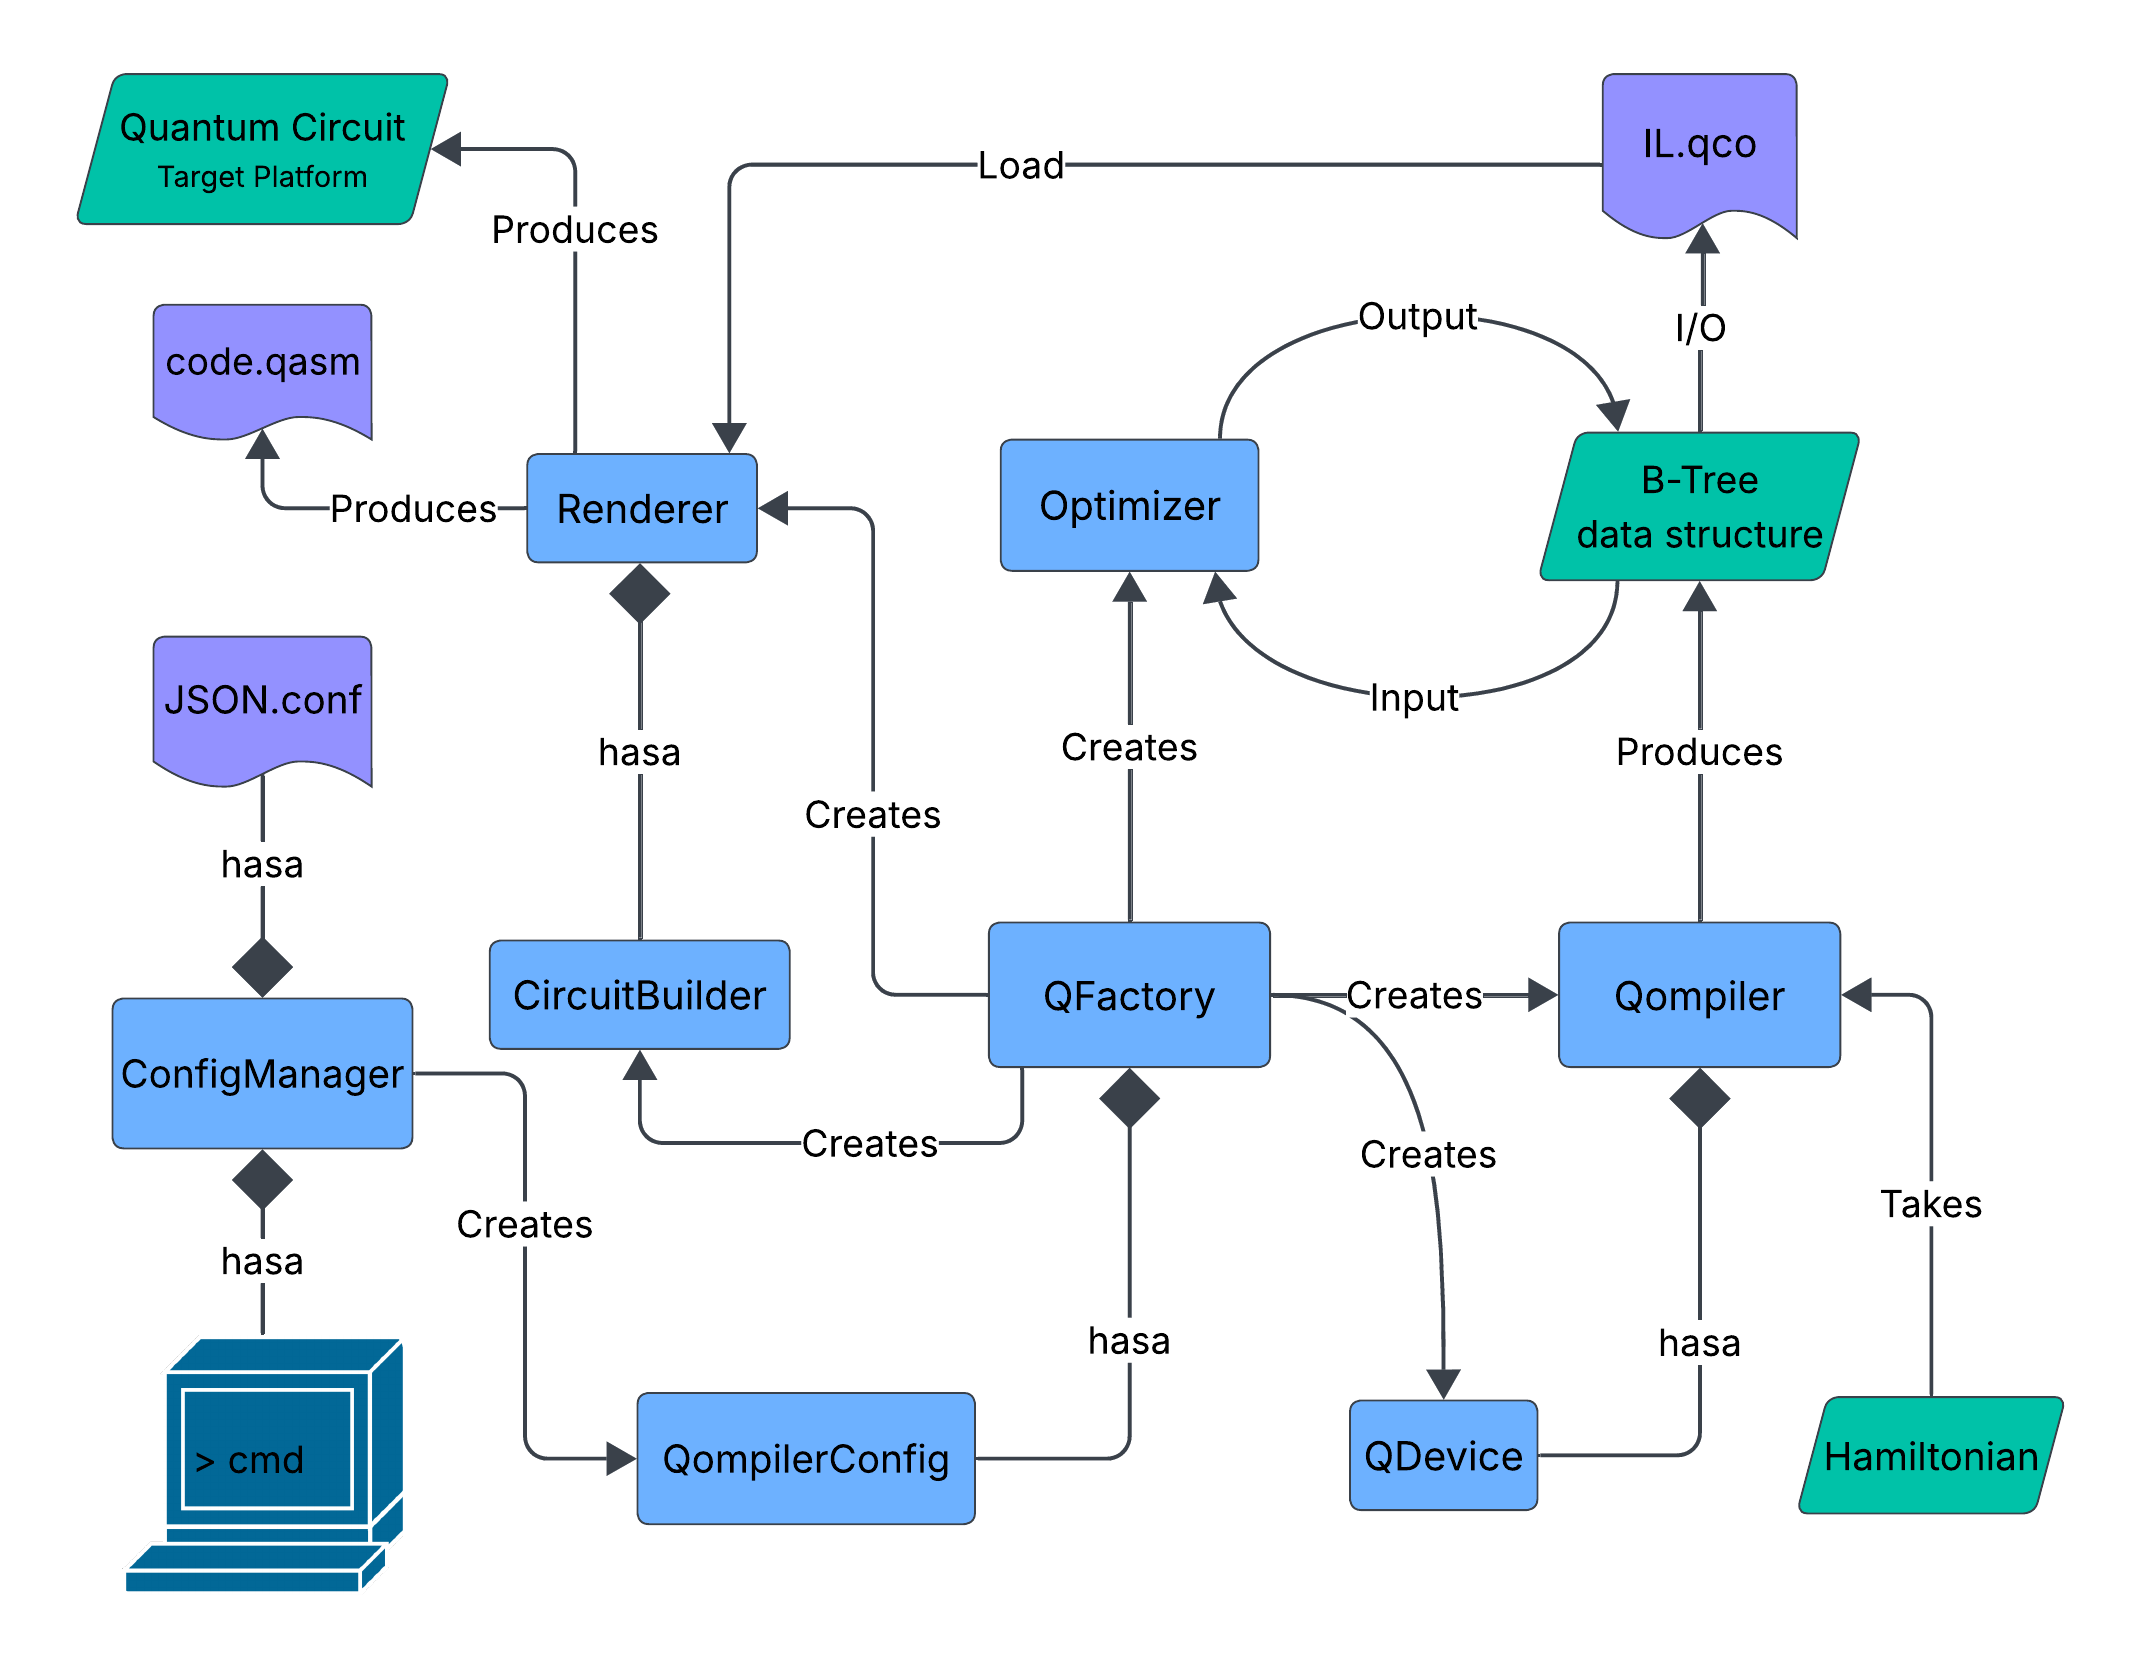
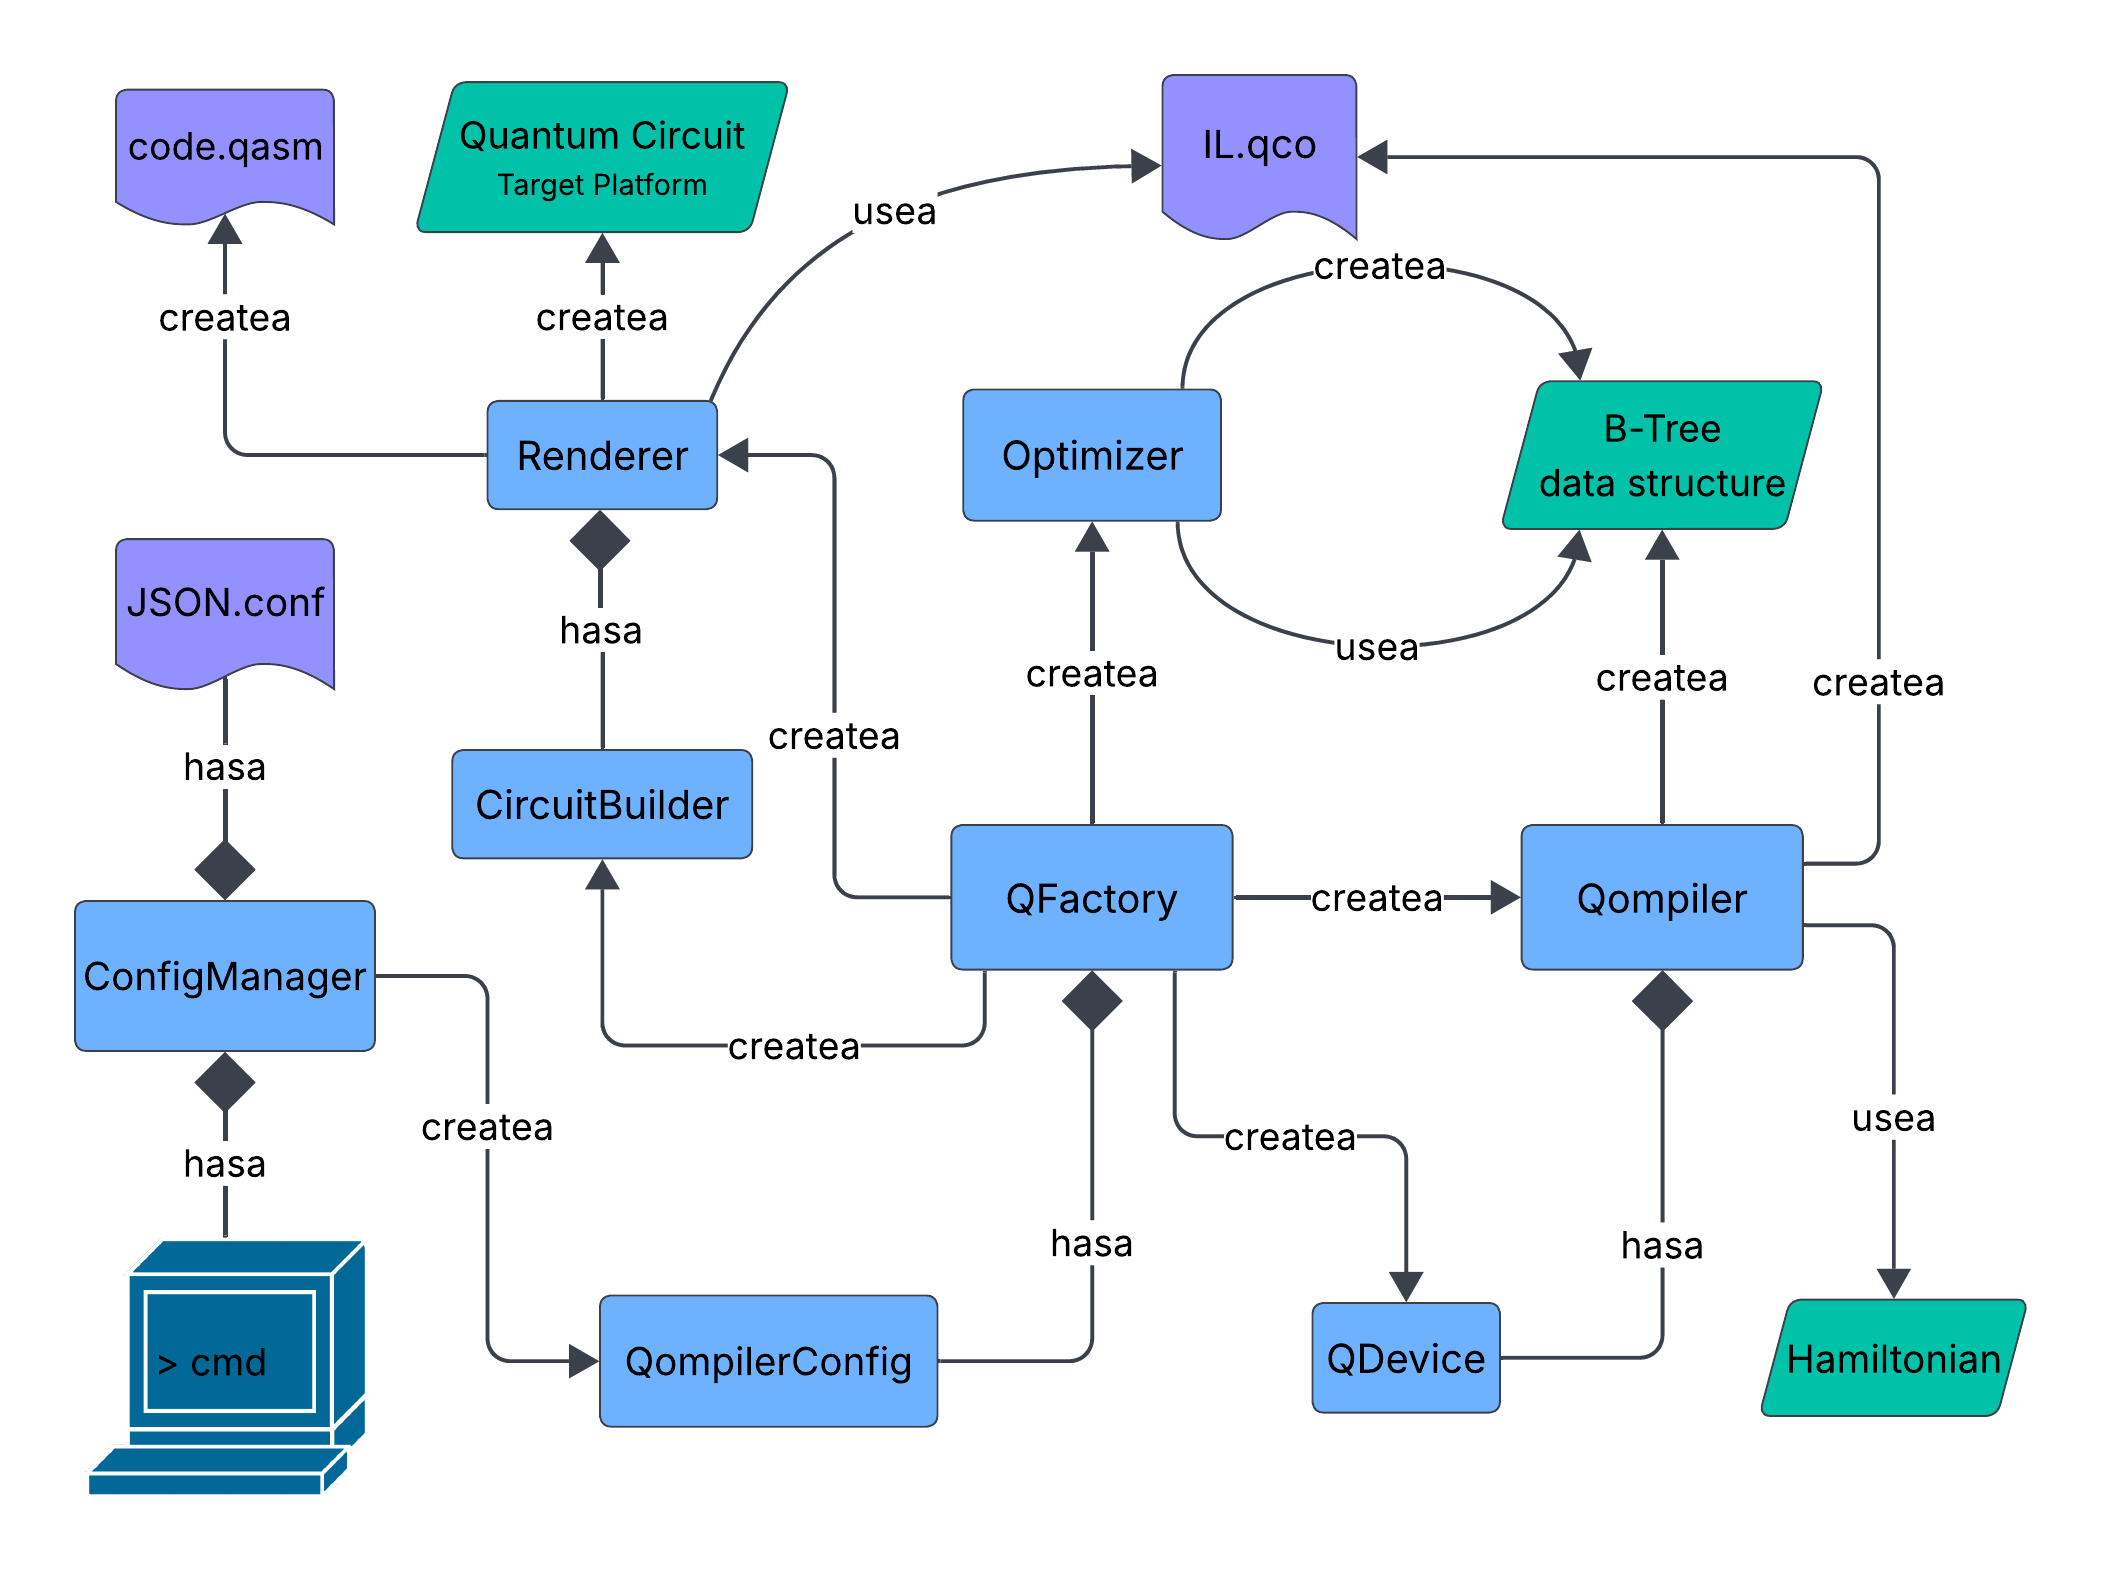
update architecture.png diagram Rewrite Decomposition section

diff --git a/quantum-compiler/article/qompiler.tex b/quantum-compiler/article/qompiler.tex
@@ -135,6 +135,8 @@ T\kern-.1667em\lower.7ex\hbox{E}\kern-.125emX}}
         Rectangles with a jagged bottom (purple) represent file input/output (file I/O).
         Parallelograms (pink) represent in-memory data structure.
         The computer icon represents user input.
+        The lines specify the relationships between the entities.
+        The relationships are one of the following---\texttt{hasa}, \texttt{usea}, \texttt{createa}.
         }
         \label{fig:impl}
     \end{figure}
@@ -262,31 +264,30 @@ T\kern-.1667em\lower.7ex\hbox{E}\kern-.125emX}}
     \subsection{Quantum Gates}\label{subsec:quantum-gates}
 
     \begin{table}[htbp]
-        \label{tab:terminology}
         \centering
         \renewcommand{\arraystretch}{1} % Add spacing between rows
         \resizebox{\textwidth}{!}{ % Resize to fit the full text width
             \begin{tabular}{|l|c|c|c|c|c|c|c|}
                 \hline
-                \textbf{Term}   & \textbf{Description}                                                                      & \textbf{Enum}          \\
+                \textbf{Term} & \textbf{Description}                                                                           & \textbf{Enum}          \\
                 \hline
-                Unitary         & Any $n$-qubit unitary operator                                                            & \texttt{UNITARY}       \\
-                2level          & Unitary operator with no more than two non-identity rows/columns                          & \texttt{TWO\_LEVEL}    \\
-                Multi-Target    & Controlled gate with more than one target qubit                                           & \texttt{MULTI\_TARGET} \\
-                Singlet         & Controlled gate with a single-qubit target                                                & \texttt{SINGLET}       \\
-                Ctrl-pruned     & Controlled gate with a single target and at most one control qubit                        & \texttt{CTRL\_PRUNED}  \\
-                Principal       & Single-qubit operators of the form $R_n(\theta)$with $n=x,y,z$ and $0 \leq \theta < 2\pi$ & \texttt{PRINCIPAL} \\
-                Universal gate  & Standard controlled universal gate                                                        & \texttt{UNIV\_GATE}    \\
-                Clifford+T gate & Controlled gates among the Clifford+T set, namely $\{X, H, S, T\}$ & \texttt{CLIFFORD\_T} \\
+                Unitary       & Any $n$-qubit unitary operator                                                                 & \texttt{UNITARY}       \\
+                2level        & Unitary operator with no more than two non-identity rows/columns                               & \texttt{TWO\_LEVEL}    \\
+                Multi-Target  & Controlled gate with more than one target qubit                                                & \texttt{MULTI\_TARGET} \\
+                Singlet       & Controlled gate with a single-qubit target                                                     & \texttt{SINGLET}       \\
+                Ctrl-pruned   & Controlled gate with a single target and at most one control qubit                             & \texttt{CTRL\_PRUNED}  \\
+                Principal     & Single-qubit operators of the form $R_n(\theta)$with $n=x,y,z$ and $0 \leq \theta < 2\pi$      & \texttt{PRINCIPAL} \\
+                Universal     & Gate set of $X$, $Y$, $Z$, $H$, $S$, $T$ and their Hermite conjugates with or without controls & \texttt{UNIV\_GATE}    \\
+                Clifford+T    & Gate set of $\{CNOT, H, S, T\}$ and their Hermite conjugates                                   & \texttt{CLIFFORD\_T}   \\
                 \hline
             \end{tabular}
         }
-        \caption{Classification of quantum gates according to their granularity and the terminologies used for this.
-        }
+        \caption{Classification of quantum gates according to their granularity and the terminologies used for this.}
+        \label{tab:terminology}
     \end{table}
 
     As stated earlier, what distinguish a quantum gate from a unitary operator is
-    that a quantum gate is allocated with a domain, a \texttt{qspace}.
+    that a quantum gate is associated with an allocated \texttt{qspace} whereas a unitary operator is not.
     Each qubit in a \texttt{qspace} can assume one of three roles:
     \begin{itemize}
         \item \texttt{TARGET}, whose quantum state may be altered.
@@ -302,12 +303,12 @@ T\kern-.1667em\lower.7ex\hbox{E}\kern-.125emX}}
         \item The roles played by each qubit
     \end{itemize}
 
-    In Table~\ref{tab:terminology}, we listed all the major types of quantum gates.
+    We listed all the major types of quantum gates in Table~\ref{tab:terminology} for ease of reference.
     For all the types of quantum gates, we designed one class `\texttt{CtrlGate}'---single qubit or
     multi-qubit, single-target or multi-target, with or without control qubits.
 
-    The \texttt{CtrlGate} can be built from Pauli operators, $X$, $Y$, $Z$, Hadamard operator $H$, phase operator, $S$, $T$,
-    rotational matrices, $R_x(\phi)$, $R_y(\phi)$, and $R_z(\phi)$, or arbitrary unitary matrices.
+    The \texttt{CtrlGate} can be built from Pauli operators, $X$, $Y$, $Z$, Hadamard operator $H$, phase operators, $S$, $T$,
+    and their Hermite conjugates, rotational matrices, $R_x(\phi)$, $R_y(\phi)$, and $R_z(\phi)$, or any arbitrary unitary matrices.
     The \texttt{CtrlGate} class is also the workhorse of most operations involving controlled gates:
     matrix multiplications, `\texttt{matmul}', expanding into extra Hilbert space, qubit sorting,
     trace operation, and direct conversion of \texttt{UnitaryM} into \texttt{CtrlGate}.
@@ -330,50 +331,56 @@ T\kern-.1667em\lower.7ex\hbox{E}\kern-.125emX}}
 
     \section{Decompositions}\label{sec:decomp}
 
-    The compilation process encodes the dynamics into a network of quantum gates, allocates and assigns qubits to each gate,
-    and by the latter, we attempt to attain the overall quantum dynamics precisely or approximately.
+    The compilation process transfers the encoding of the dynamics from the $n \times n$ unitary
+    matrix into a network of quantum gates, allocates and assigns qubits to each gate.
     In this section, we go over the decomposition process of the \texttt{qompiler}.
 
 
-    Starting from an arbitrary $n \times n$-dimensional unitary operator,
-    the encoded quantum formulation undergoes a number of decomposition processes.
-%    TODO
-    From an arbitrary $n \times n$-dimensional unitary operator to single-qubit gates and/or \texttt{XNOT} two-qubit interaction gates,
-    Given a unitary operator as input, the decomposition process breaks it down into a sequence of gates of the desirable type
-    so that the matrix product of the latter recovers the former.
-    In this section, we detail some aspects of the decomposition processes used by \texttt{qompiler}, including
-    \begin{itemize}
-        \item \texttt{mat2l\_decompose}: decompose an arbitrary $n \times n$ unitary matrix into two-level unitary matrices.
-        \item \texttt{cnot\_decompose}: decompose a two-level unitary matrix into single-target operators in universal gates.
-        \item \texttt{ctrl\_decompose}: given a single-qubit \texttt{CtrlGate}, decompose its control sequences to no more than a certain length, usually one or two qubits.
-        \item \texttt{euler\_decompose}: given a controlled unitary matrix, decompose it into Euler rotation operators and optionally a phase shift.
-        \item \texttt{cliffordt\_decompose}: given a standard gate, decompose it into \texttt{Clifford} + \texttt{T} gates.
-    \end{itemize}
+    Starting from an arbitrary $n$-dimensional unitary operator,
+    the encoded quantum formulation undergoes a number of decomposition processes
+    until they become quantum gates of desirable granularity,
+    like principal single-qubit gates, \texttt{CNOT} gates, etc.
+%    The quantum circuit attains the original quantum dynamics with $100\%$ fidelity.
 
-    These decomposition methods are orchestrated by the class \texttt{Qompiler}.
-    \texttt{QDevice} is used for allocating qubits and ancilla qubits.
+    The main decomposition processes used by \texttt{qompiler} are listed here:
+    \begin{itemize}
+        \item \texttt{mat2l\_decompose}: decomposes an arbitrary $n \times n$ unitary matrix into \texttt{2level} unitary matrices.
+        \item \texttt{cnot\_decompose}: decomposes a \texttt{2level} unitary matrix into single-target operators in universal gates.
+        \item \texttt{ctrl\_decompose}: given a controlled gate, break its control sequence down to shorter controls,
+        usually with the help of ancilla qubits.
+        \item \texttt{euler\_decompose}: decomposes a single-qubit gate into Euler rotation operators and optionally a phase shift.
+        \item \texttt{cliffordt\_decompose}: given a universal gate, decomposes it into \texttt{Clifford} + \texttt{T} gates.
+        \item \texttt{Solovay-Kitaev\_decompose}: approximate a single-qubit gate into universal gates
+        or a subset like the \texttt{Clifford} + \texttt{T} gates.
+    \end{itemize}
 
     \begin{figure}[tbhp]
         \centering
+        % TODO redraw the graph to inlcude the decomposition processes
         \includegraphics[width=.8\linewidth]{workflow}
-        \caption{The major compilation workflow in details.
+        \caption{The compilation workflow in details.
+        The entry point is \texttt{Unitary}.
         Each parallelogram (pink) represents a stage of the compiled data.
         Each rhombus (green) represents a granularity test.
-        There are probes for three major granularity types---\texttt{MULTI\_TARGET}, \texttt{PRINCIPAL}, and \texttt{CLIFFORD\_T}.
+        There are tests for three major granularities---\texttt{MULTI\_TARGET}, \texttt{PRINCIPAL}, and \texttt{CLIFFORD\_T}.
         }
         \label{fig:workflow}
     \end{figure}
-    The major compilation workflow is illustrated in Fig.~\ref{fig:workflow}.
-    The entry point is \texttt{Unitary}.
-    If the configuration specifies a granularity of \texttt{MULTI\_TARGET},
-    the decomposition terminates with multi-target operators.
-    Otherwise, the unitary operator is sequentially decomposed into two-level unitary operators,
-    single-qubit gates, and control-pruned gates.
-    A granularity probe of type \texttt{PRINCIPAL} is then performed to determine
-    whether the target granularity has been reached.
-    If so, the output consists of principal rotational operators.
-    If not, the decomposition continues into either Clifford+T gate sets or user-defined universal gate sets.
-    For ease of reference, the terminology used in this paper is summarized in Table~\ref{tab:terminology}.
+    These decomposition processes are orchestrated by the class \texttt{Qompiler} recursively in a depth-first fashion
+    as illustrated in Figure~\ref{fig:workflow}.
+    The granularity of the final quantum gate is specified in the \texttt{QConfig}.
+    Unless the configuration specifies a granularity of \texttt{MULTI\_TARGET},
+    the \texttt{qompiler} will perform \texttt{mat2l\_decompose} and \texttt{cnot\_decompose},
+    to decompose the gates into \texttt{2level} unitary operators and single-qubit gates, correspondingly.
+    Next, the \texttt{qompiler} will determine if the granularity specification requires pruning the control sequence.
+    If so, it will perform the \texttt{ctrl\_decompose}.
+    Following that, the \texttt{euler\_decompose} is performed to break down into \texttt{PRINCIPAL} rotational gates.
+    If \texttt{PRINCIPAL} gate types are acceptable, the decomposition process will end.
+    Otherwise, if the gate is already one of the universal gates, the \texttt{cliffordt\_decompose} may be performed
+    to conform to the required subset of gate types.
+    Otherwise, the \texttt{Solovay-Kitaev\_decompose} is used to approximate the single-qubit gate with
+    a sequence of universal gates to a configurable tolerance of residual error.
+    The \texttt{Solovay-Kitaev\_decompose} will be discussed in more details in the next section.
 
 
     \section{Solovay and Kitaev Approximation}\label{sec:sk-approx}
